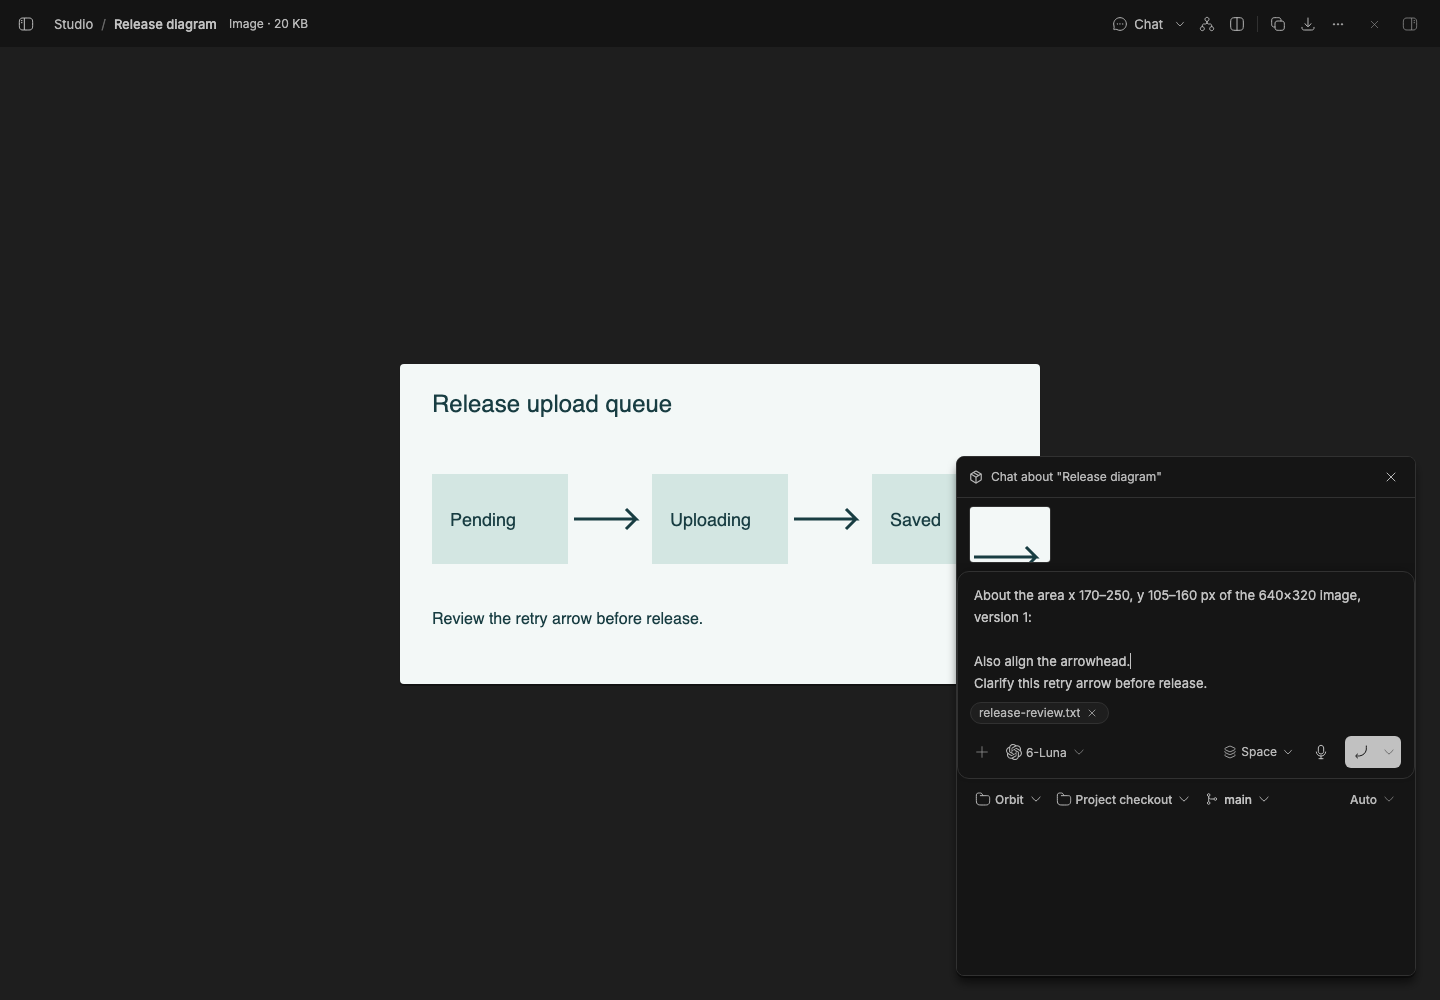
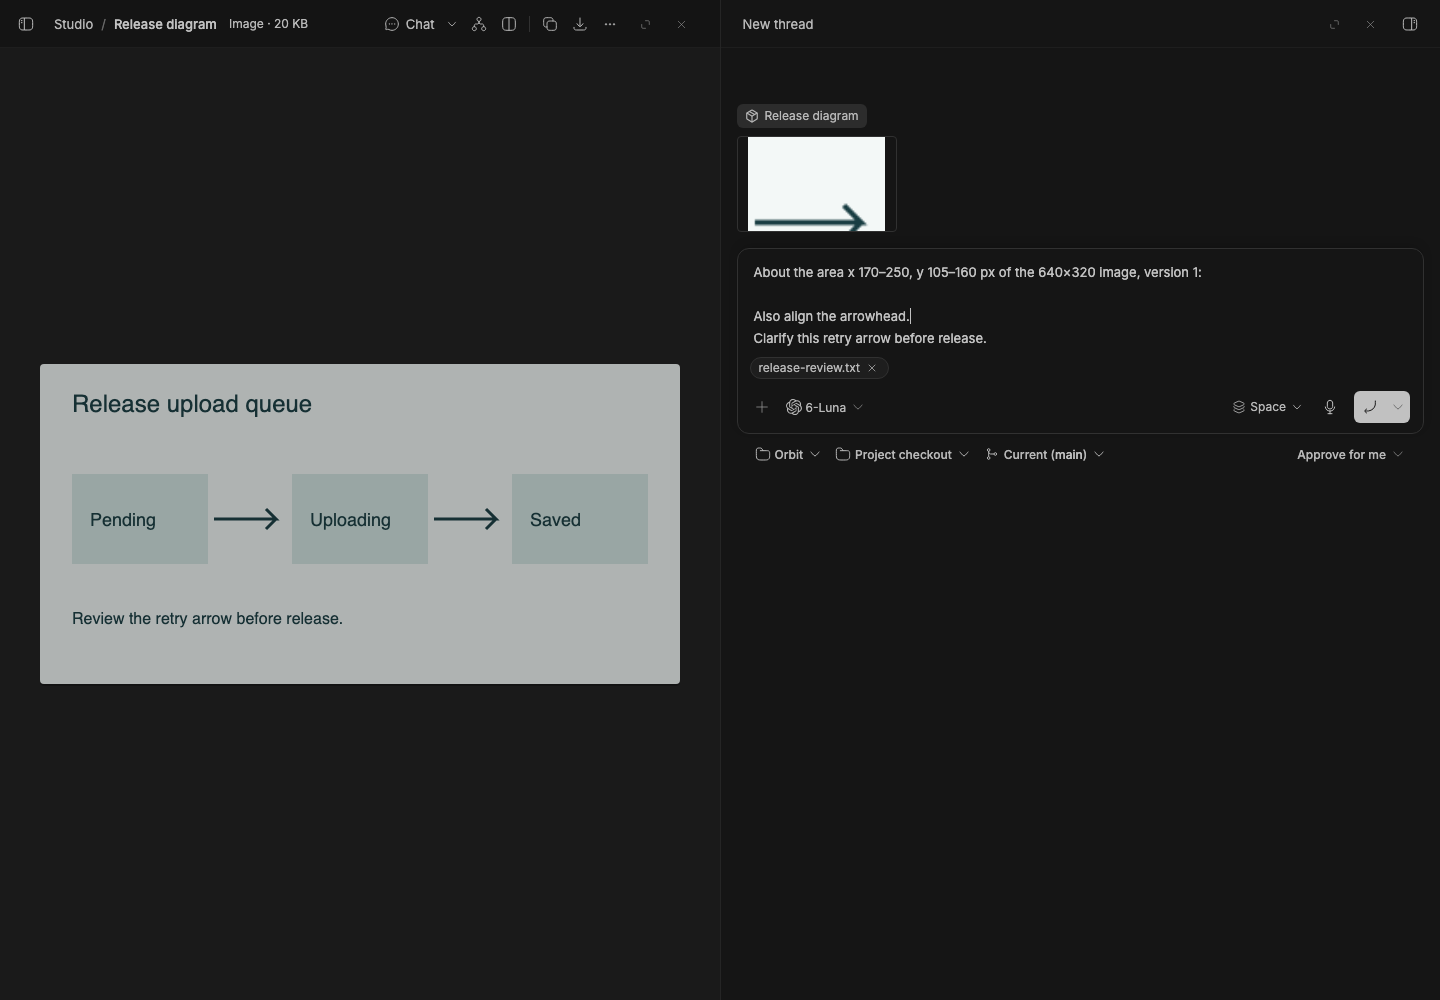
Studio Chat bridge: refresh the item chat capture; drop the retired quote image
The composer is now in a split beside the image, not a corner card.
quote-mobile.png showed the retired corner composer and nothing used it.

diff --git a/packages/bb-studio-chat/README.md b/packages/bb-studio-chat/README.md
@@ -32,10 +32,11 @@ original names, so unsent text, attachments, and quotes survive.
 
 ## Staged preview
 
-![Studio item chat composing a quote about an image](assets/staged-preview.png)
+![Studio item chat composing a quote about an image, in a split beside it](assets/staged-preview.png)
 
 The capture shows the chat that now ships in Studio, which this bridge forwards
-to: a staged "Release diagram" image open in Studio, with its **Chat about
-"Release diagram"** composer. The draft quotes a cropped area of
-the image, adds a note and attaches `release-review.txt`. This package has no UI
+to: a staged "Release diagram" image open in Studio, with its new-thread
+composer in a split beside it. The composer is tagged "Release diagram" and
+shows the cropped arrow it quotes. The draft names the selected area, adds a
+note and attaches `release-review.txt`. This package has no UI
 of its own; Studio's captures and behavior tests cover chat.
